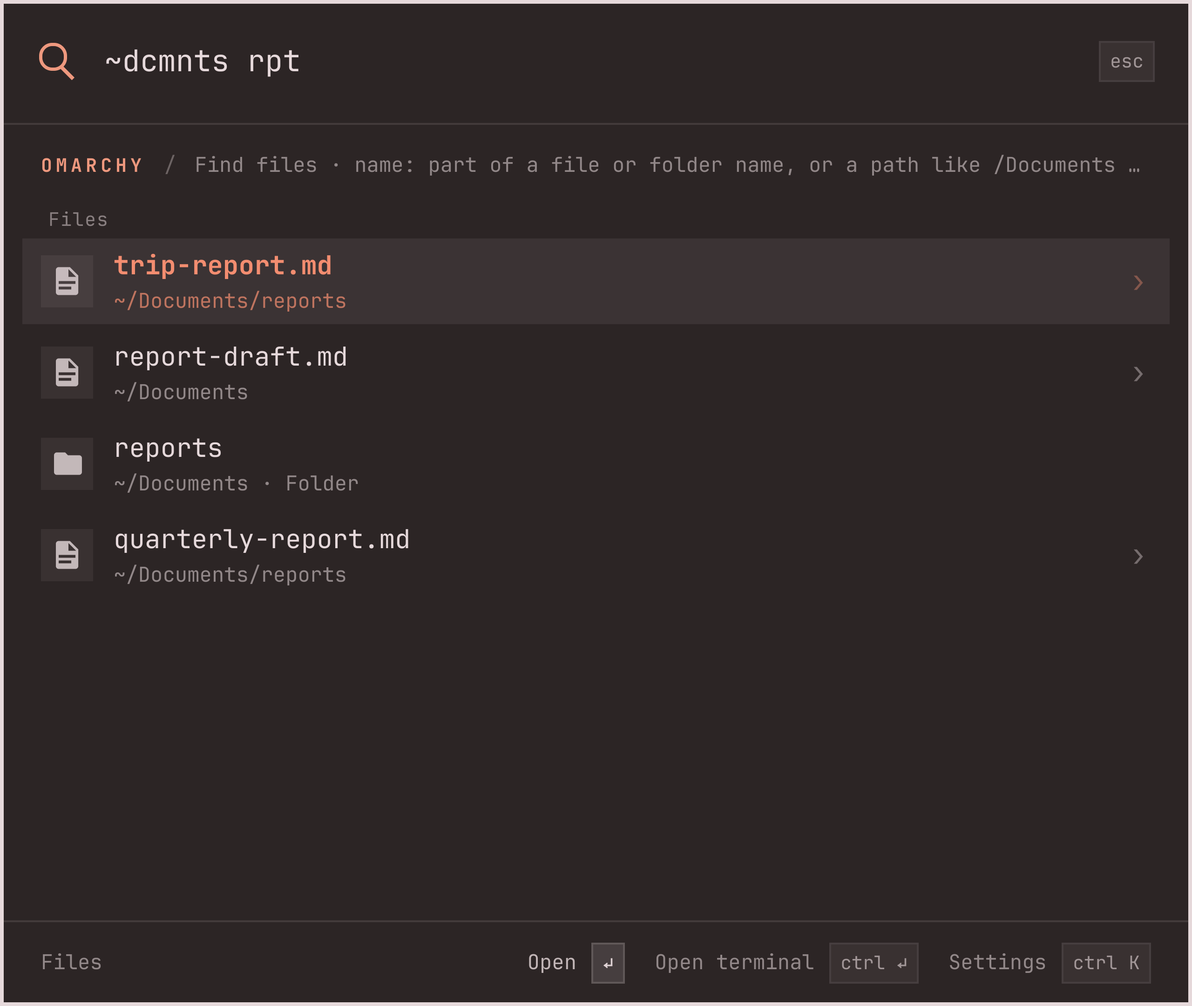
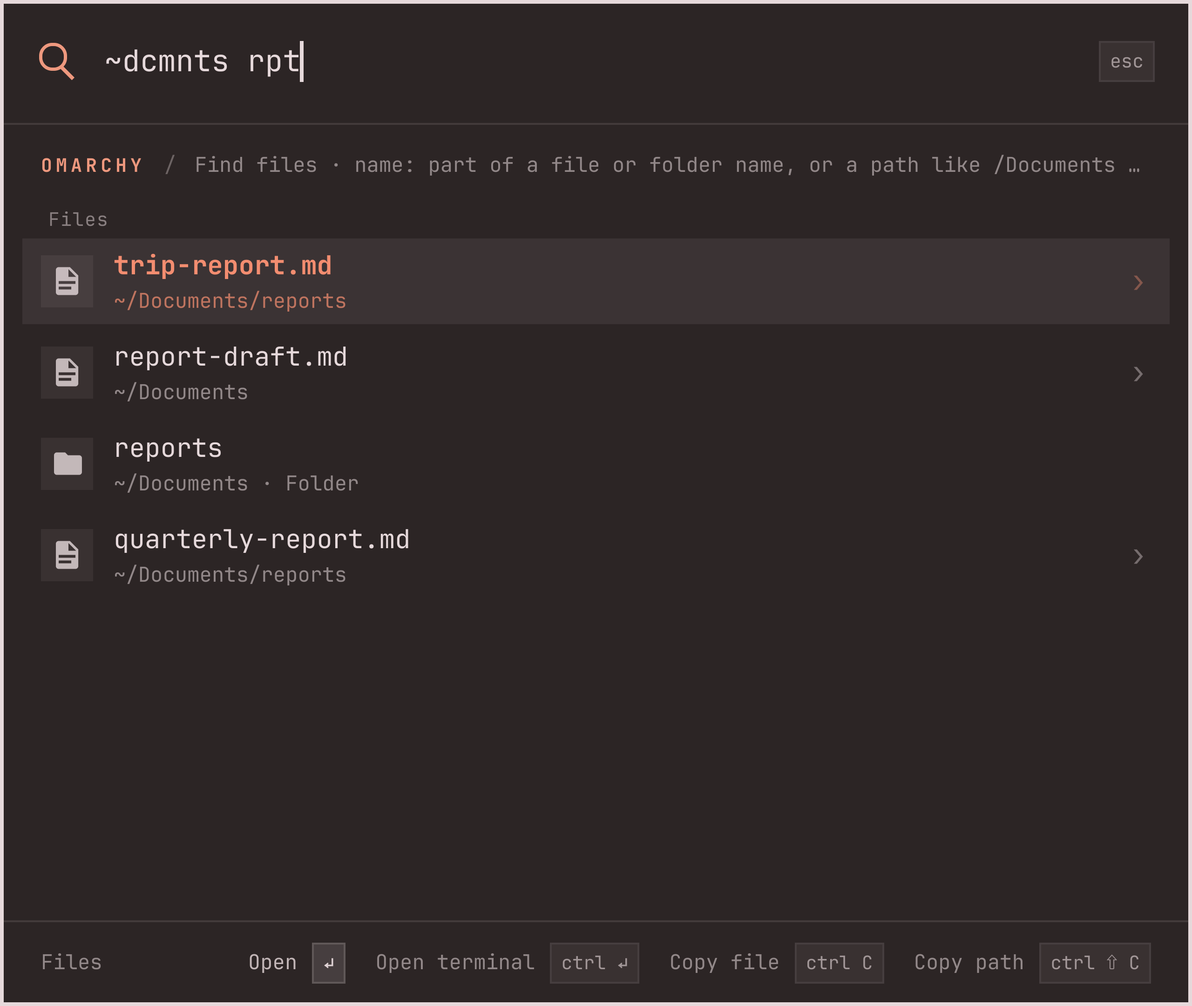
Copy a file or its path from file search
Ctrl+C on a file search result copies the file itself, as a text/uri-list a
file manager pastes as the file and an upload field accepts; Ctrl+Shift+C
copies its absolute path as text. With text selected in the search field,
Ctrl+C still copies the selection.

Rows gain optional copyAction/copyVerb and copyAltAction/copyAltVerb for the
two keys, listed in the footer; the Ctrl+K hint gives way when a row already
fills the footer with four keys. The copy effect takes an optional mime.

Closes #21.

Changed region(s): [[0.375, 0.9306, 0.9375, 0.9926], [0.2188, 0.9306, 0.3438, 0.9926]]

diff --git a/Keystroke.qml b/Keystroke.qml
@@ -464,8 +464,12 @@ Item {
     var out = [{ label: root.dictationMode ? "Copy" : voice.active ? "Finish" : row.verb || "Select", keys: typesQuery ? ["↵", "tab"] : ["↵"], bright: true }]
     if (root.clipboardChoice) out.push({ label: "Paste", key: "ctrl ↵" })
     else if (can && row.altVerb && !voice.active) out.push({ label: row.altVerb, key: "ctrl ↵" })
+    if (can && row.copyAction && !voice.active) out.push({ label: row.copyVerb, key: "ctrl C" })
+    if (can && row.copyAltAction && !voice.active) out.push({ label: row.copyAltVerb, key: "ctrl ⇧ C" })
     if (can && row.appId) out.push({ label: "Uninstall", key: "del" })
-    out.push({ label: root.compact ? "Settings" : "Provider settings", key: "ctrl K" })
+    // Ctrl+K is the one hint not about the selection; it yields when the row
+    // already fills the footer (Files: open, terminal, copy file, copy path).
+    if (out.length <= 3) out.push({ label: root.compact ? "Settings" : "Provider settings", key: "ctrl K" })
     return out
   }
   readonly property bool previewVisible: !dmenuActive && paletteSettings.showPreview !== false && !!(current.preview || current.previewImage || current.swatch)
@@ -983,6 +987,8 @@ Item {
     out.accessory = String(row.accessory || "")
     out.badge = String(row.badge || (entry.source === "extension" ? "extension" : ""))
     out.altVerb = String(row.altVerb || (row.altAction ? root.defaultVerb(row.altAction) : ""))
+    out.copyVerb = String(row.copyVerb || (row.copyAction ? "Copy" : ""))
+    out.copyAltVerb = String(row.copyAltVerb || (row.copyAltAction ? "Copy" : ""))
     out.disabled = row.disabled === true
     out.remember = row.remember === true
     out.confirm = String(row.confirm || "")
@@ -1177,6 +1183,19 @@ Item {
     else run()
   }
 
+  // Ctrl+C and Ctrl+Shift+C: a row's copyAction and copyAltAction (Files:
+  // the file itself and its path). False when the row offers none.
+  function copySelection(alternate) {
+    if (root.confirmPending || root.dmenuActive || root.dictationMode) return false
+    var row = root.current
+    var effect = row && row.uid && !row.disabled ? (alternate ? row.copyAltAction : row.copyAction) : null
+    if (!effect) return false
+    root.flash(row.uid)
+    root.remember(row)
+    root.perform(effect, row)
+    return true
+  }
+
   function applyDmenuSelection(value) {
     root.opened = false
     root.finishRequest(value)
@@ -1211,7 +1230,8 @@ Item {
     // would be readable by every local user in /proc/<pid>/cmdline. The palette
     // closes once wl-copy has it.
     if (type === "copy") {
-      if (!clipboardTransfer.submit(effect.text === undefined ? "" : effect.text, false)) root.cancel()
+      var copy = effect.mime ? ["wl-copy", "--type", String(effect.mime)] : null
+      if (!clipboardTransfer.submit(effect.text === undefined ? "" : effect.text, false, null, copy)) root.cancel()
       return
     }
     if (type === "query") { root.typeQuery(effect.text); return }
@@ -1505,6 +1525,7 @@ Item {
             else if (event.key === Qt.Key_Right && (atEnd || !text) && !root.dmenuActive && root.rows.length) { root.activate(); event.accepted = true }
             else if ((event.key === Qt.Key_Left || event.key === Qt.Key_Backspace) && !text && !preeditText && (root.scope || root.history.length)) { root.goBack(); event.accepted = true }
             else if (event.key === Qt.Key_Delete && atEnd && !selectedText && root.current.appId) { root.requestUninstall(); event.accepted = true }
+            else if (ctrl && event.key === Qt.Key_C && !selectedText && root.copySelection(!!(event.modifiers & Qt.ShiftModifier))) { event.accepted = true }
             else if (ctrl && event.key >= Qt.Key_1 && event.key <= Qt.Key_8) { root.activateAt(event.key - Qt.Key_1); event.accepted = true }
             else if (ctrl && event.key === Qt.Key_Comma && !root.dmenuActive) { root.navigate("settings", "Settings"); event.accepted = true }
             else if (ctrl && event.key === Qt.Key_K && !root.dmenuActive) {

diff --git a/core/Files.js b/core/Files.js
@@ -157,13 +157,27 @@ function terminalEffect(entry) {
   return { type: "exec", argv: ["setsid", "uwsm-app", "--", "xdg-terminal-exec", "--dir=" + dir] }
 }
 
+// A file URI, each path segment percent-encoded ("My Report #1.pdf" stays one
+// segment, never a fragment).
+function fileUri(path) {
+  return "file://" + String(path).split("/").map(encodeURIComponent).join("/")
+}
+
+// Ctrl+C copies the file itself, the way a file manager does: a text/uri-list
+// (CRLF-terminated, RFC 2483) that file managers paste as the file and upload
+// fields accept. Ctrl+Shift+C copies the absolute path as text.
+function copyFileEffect(entry) { return { type: "copy", mime: "text/uri-list", text: fileUri(entry.path) + "\r\n" } }
+function copyPathEffect(entry) { return { type: "copy", text: entry.path } }
+
 function row(query, entry, order, known) {
   var name = baseName(entry.rel), kind = kindOf(entry)
   var parent = tilde(parentOf(entry.rel))
   var out = {
     id: entry.rel, title: name, subtitle: parent + (entry.dir ? " · Folder" : ""), icon: ICONS[kind], section: "Files",
     verb: entry.dir ? "Open folder" : "Open", tier: "item", score: known === undefined ? score(query, entry) : known, order: order, remember: true,
-    altVerb: "Open terminal", action: openEffect(entry), altAction: terminalEffect(entry)
+    altVerb: "Open terminal", action: openEffect(entry), altAction: terminalEffect(entry),
+    copyVerb: entry.dir ? "Copy folder" : "Copy file", copyAction: copyFileEffect(entry),
+    copyAltVerb: "Copy path", copyAltAction: copyPathEffect(entry)
   }
   // Only a picture earns the preview pane; the row already says where a
   // file or folder is, and the footer what the keys do.

diff --git a/site/guide/index.html b/site/guide/index.html
@@ -197,7 +197,7 @@
     <div class="topic-copy">
       <span class="feature-number">13 / FILES AND FOLDERS</span>
       <h3 id="files-title">Find files and folders</h3>
-      <p>Files and folders under your home join the results from two characters on, found with <code>fd</code>, and abbreviations work: <code>dwnlds</code> finds Downloads. <code>~</code> searches only files: <code>~dcmnts rpt</code> is every report under Documents. <kbd>↵</kbd> opens the file with its default app; <kbd>Ctrl</kbd>+<kbd>↵</kbd> opens a terminal in its folder. Hidden entries are optional and gitignore rules are respected. Settings → Files chooses whether files mix into the main palette fuzzily, literally, or only with <code>~</code>.</p>
+      <p>Files and folders under your home join the results from two characters on, found with <code>fd</code>, and abbreviations work: <code>dwnlds</code> finds Downloads. <code>~</code> searches only files: <code>~dcmnts rpt</code> is every report under Documents. <kbd>↵</kbd> opens the file with its default app; <kbd>Ctrl</kbd>+<kbd>↵</kbd> opens a terminal in its folder. <kbd>Ctrl</kbd>+<kbd>C</kbd> copies the file itself, to paste into a file manager or an upload field, and <kbd>Ctrl</kbd>+<kbd>Shift</kbd>+<kbd>C</kbd> copies its full path. Hidden entries are optional and gitignore rules are respected. Settings → Files chooses whether files mix into the main palette fuzzily, literally, or only with <code>~</code>.</p>
       <p class="try"><b>Try it</b> Type <code>~dcmnts rpt</code>. Press <kbd>Ctrl</kbd>+<kbd>↵</kbd> to land in that folder in a terminal.</p>
     </div>
     <div class="shots">

diff --git a/voice/ClipboardTransfer.qml b/voice/ClipboardTransfer.qml
@@ -3,12 +3,13 @@ import Quickshell.Io
 
 // Copy completes before the palette closes. Only then allow 100 ms for focus
 // restoration and dispatch a paste shortcut. Text travels over stdin, not shell.
-// submit() may name its own paste command for one transfer.
+// submit() may name its own paste and copy commands for one transfer.
 Item {
   id: root
   property var copyCommand: ["wl-copy"]
   property var pasteCommand: ["wtype", "-M", "shift", "-k", "Insert", "-m", "shift"]
   property var activePasteCommand: pasteCommand
+  property var activeCopyCommand: copyCommand
   property bool busy: false
   property bool pasteAfterCopy: false
   property string payload: ""
@@ -16,12 +17,13 @@ Item {
   signal completed()
   signal failed(string message)
 
-  function submit(text, paste, command) {
+  function submit(text, paste, command, copy) {
     if (root.busy || copyProc.running || pasteProc.running || !String(text || "").trim()) return false
     root.busy = true
     root.payload = String(text)
     root.pasteAfterCopy = paste === true
     root.activePasteCommand = command || root.pasteCommand
+    root.activeCopyCommand = copy || root.copyCommand
     copyProc.stdinEnabled = true
     copyProc.running = true
     deadline.restart()
@@ -38,7 +40,7 @@ Item {
   function fail(message) { root.cancel(); root.failed(message) }
   Process {
     id: copyProc
-    command: root.copyCommand
+    command: root.activeCopyCommand
     onStarted: { write(root.payload); root.payload = ""; stdinEnabled = false }
     onExited: function(code) {
       if (!root.busy) return

diff --git a/tests/tst_files.qml b/tests/tst_files.qml
@@ -21,6 +21,18 @@ TestCase {
         verify(Files.cacheKey("re", both) !== Files.cacheKey("re", { files: true, folders: false }))
     }
 
+    function test_rows_copy_the_file_and_its_path() {
+        var file = Files.row("rpt", { path: home + "/Docs/My Report #1.pdf", rel: "Docs/My Report #1.pdf", dir: false }, 0, 10)
+        compare(file.copyVerb, "Copy file")
+        compare(file.copyAction, { type: "copy", mime: "text/uri-list", text: "file://" + home + "/Docs/My%20Report%20%231.pdf\r\n" })
+        compare(file.copyAltVerb, "Copy path")
+        compare(file.copyAltAction, { type: "copy", text: home + "/Docs/My Report #1.pdf" })
+        var folder = Files.row("doc", { path: home + "/Docs", rel: "Docs", dir: true }, 0, 10)
+        compare(folder.copyVerb, "Copy folder")
+        compare(folder.copyAction.text, "file://" + home + "/Docs\r\n")
+        compare(Files.fileUri("/a/%b?c/\u00e9"), "file:///a/%25b%3Fc/%C3%A9")
+    }
+
     function test_mounted_filesystems_are_opt_in() {
         verify(Files.argv("report", home, both).indexOf("--one-file-system") >= 0)
         var mounted = Object.assign({}, both, { searchMounts: true })

diff --git a/tests/palette_copy_check.py b/tests/palette_copy_check.py
@@ -47,6 +47,9 @@ os.execv("/bin/bash", ["bash"] + sys.argv[1:])
     secret = "token=hunter2\nline two -- $(id) 'quoted' é"
     typed = "hunter2 $(id) 'q' é"
     selection, done = work / "selection", work / "done"
+    report = work / "Docs/My Report #1.pdf"
+    report.parent.mkdir()
+    report.write_text("report")
     (work / "shell.qml").write_text('''import QtQuick
 import Quickshell
 import "project"
@@ -82,6 +85,35 @@ ShellRoot {
      test.stage++; return
    case 4:
      if (palette.opened) return
+     palette.open(JSON.stringify({query: "~my report"}))
+     test.stage++; return
+   case 5:
+     var file = palette.rows.filter(function(r) { return r.title === "My Report #1.pdf" })[0]
+     if (palette.pending || !file) return
+     palette.selected = palette.rows.indexOf(file)
+     var labels = palette.footerActions.map(function(a) { return a.label + " " + a.key })
+     check(labels.indexOf("Copy file ctrl C") >= 0 && labels.indexOf("Copy path ctrl ⇧ C") >= 0, "footer names both copy keys: " + labels)
+     check(palette.copySelection(false), "Ctrl+C copies the file")
+     test.stage++; return
+   case 6:
+     if (palette.opened) return
+     palette.open(JSON.stringify({query: "~my report"}))
+     test.stage++; return
+   case 7:
+     var again = palette.rows.filter(function(r) { return r.title === "My Report #1.pdf" })[0]
+     if (palette.pending || !again) return
+     palette.selected = palette.rows.indexOf(again)
+     check(palette.copySelection(true), "Ctrl+Shift+C copies the path")
+     test.stage++; return
+   case 8:
+     if (palette.opened) return
+     palette.open(JSON.stringify({query: "2+3"}))
+     test.stage++; return
+   case 9:
+     if (palette.pending || !palette.rows.length) return
+     palette.selected = 0
+     check(!palette.copySelection(false) && palette.opened, "a row without copy actions leaves Ctrl+C alone")
+     palette.cancel()
      console.log(test.failures ? "FAIL palette private text" : "PASS palette private text")
      Qt.quit(); test.stage++; return
    }
@@ -103,7 +135,9 @@ ShellRoot {
     assert "PASS palette private text" in output and "FAIL" not in output, output
     assert "TypeError" not in output and "ReferenceError" not in output, output
     copies = [json.loads(line) for line in log.read_text().splitlines()]
-    assert copies == [{"args": [], "stdin": "5"}, {"args": [], "stdin": secret}], copies
+    assert copies == [{"args": [], "stdin": "5"}, {"args": [], "stdin": secret},
+                      {"args": ["--type", "text/uri-list"], "stdin": "file://" + str(work).replace(" ", "%20") + "/Docs/My%20Report%20%231.pdf\r\n"},
+                      {"args": [], "stdin": str(report)}], copies
     deadline = time.monotonic() + 5
     while not done.exists() and time.monotonic() < deadline:
         time.sleep(0.05)
@@ -111,4 +145,4 @@ ShellRoot {
     assert selection.read_text() == typed + "\n", selection.read_text()
     argvs = bash_log.read_text() if bash_log.exists() else ""
     assert "hunter2" not in argvs, argvs
-    print("PASS palette private text: copies and picker input reach their process on stdin, byte for byte, never as arguments")
+    print("PASS palette private text: copies, file and path copies and picker input reach their process on stdin, byte for byte, never as arguments")

diff --git a/docs/providers.md b/docs/providers.md
@@ -107,7 +107,8 @@ Commands and patterns coexist: a command is the explicit trigger, a pattern the 
   score: 100, order: 0, keywords: "ids aliases", path: "Parent › Child › …", description: "prose", accessory: "✓",
   disabled: false, remember: false, confirm: "Really?", confirmDetail: "one muted line under the question", confirmText: "Turn on", cancelText: "Keep off",
   preview: "text", previewLabel: "RESULT", previewDetail: "…", previewImage: "/path.png", swatch: "#hex",
-  action: effect, altAction: effect, altVerb: "Copy URL" }
+  action: effect, altAction: effect, altVerb: "Copy URL",
+  copyAction: effect, copyVerb: "Copy file", copyAltAction: effect, copyAltVerb: "Copy path" }
 ```
 
 Legacy `catalog(ctx)` fields are ignored; the local model command classifier has been removed. A row's `hint` (once a line of keys shown on the selected row) is ignored too: the keys that act on the selection are listed in the footer, from `verb`, `altVerb` and the screen.
@@ -115,6 +116,8 @@ Legacy `catalog(ctx)` fields are ignored; the local model command classifier has
 `confirm` asks before the effect runs, in a sheet that rises from the bottom of the card; the optional `confirmDetail` is a muted paragraph under the question. `↵` runs the effect and `Esc` keeps things as they are; `confirmText` and `cancelText` name those two keys for what they do ("Turn on" / "Keep off", "Cancel timer" / "Keep running") instead of the default Confirm / Cancel. Turning an extension on uses the detail to say what was checked and that the code runs at the user's own risk. A confirmation never carries a link: opening anything would move focus away from the palette.
 
 `altAction` is optional and runs on `Ctrl+↵` (a row without one runs `action` again). Name it in `altVerb` ("Copy URL", "Open terminal"), the way `verb` names `↵`; the footer shows both next to their keys while the row is selected. A row with an `altAction` and no `altVerb` gets a name from the effect's type (`copy` → Copy, `url` → Open). A provider's `activate(row, ctx)` receives `ctx.alternate === true` for that key so it can compute the effect itself.
+
+`copyAction` and `copyAltAction` are optional and run on `Ctrl+C` and `Ctrl+Shift+C` while the search field has no selected text (with a selection, `Ctrl+C` copies it as usual). Name them in `copyVerb` and `copyAltVerb`; the footer lists them after `Ctrl+↵`, and the `Ctrl+K` hint gives way when the row already offers four keys. They run as given, without `activate`. Files uses them to copy the file itself (`copyAction`, a `text/uri-list`) and its absolute path (`copyAltAction`).
 
 A row does not change when selected beyond its highlight. `accessory` is state the row carries (a check mark, a setting's value, a countdown), not where it came from: say that with the icon or the section, or in `previewLabel` when there is a pane. An extension's rows carry an `extension` badge (a local folder's, `local`) that the preview pane shows beside `previewDetail`.
 
@@ -124,7 +127,7 @@ Give a row a `preview`, `previewImage` or `swatch` only when the pane adds somet
 
 ### Effects
 
-`{type:"navigate", scope, title}` · `{type:"query", text}` (put `text` in the search field at the palette root and stay open: what a command's usage rows and the `/` screen do) · `{type:"exec", argv}` (literal argv, login-shell env) · `{type:"shell", command}` (trusted strings only) · `{type:"copy", text}` · `{type:"paste", text}` or `{type:"paste", mime, path}` (copy, close, then paste into the previous window: `Ctrl+Shift+V` in a terminal, `Ctrl+V` elsewhere; `shortcut:"shift-insert"` forces `Shift+Insert`) · `{type:"url", url}` · `{type:"app", id, name}` (launch via AppLibrary) · `{type:"notify", glyph, headline, body}` · `{type:"setting", path, key, value, schema}` · `{type:"compound", actions}` · `{type:"close"}` (dismiss the palette, nothing else) · `{type:"noop"}` (stay open; pair it with `host.requery()` when your rows changed). The host closes the palette before anything that launches.
+`{type:"navigate", scope, title}` · `{type:"query", text}` (put `text` in the search field at the palette root and stay open: what a command's usage rows and the `/` screen do) · `{type:"exec", argv}` (literal argv, login-shell env) · `{type:"shell", command}` (trusted strings only) · `{type:"copy", text}` (to `wl-copy` on stdin; an optional `mime` such as `"text/uri-list"` sets the clipboard type) · `{type:"paste", text}` or `{type:"paste", mime, path}` (copy, close, then paste into the previous window: `Ctrl+Shift+V` in a terminal, `Ctrl+V` elsewhere; `shortcut:"shift-insert"` forces `Shift+Insert`) · `{type:"url", url}` · `{type:"app", id, name}` (launch via AppLibrary) · `{type:"notify", glyph, headline, body}` · `{type:"setting", path, key, value, schema}` · `{type:"compound", actions}` · `{type:"close"}` (dismiss the palette, nothing else) · `{type:"noop"}` (stay open; pair it with `host.requery()` when your rows changed). The host closes the palette before anything that launches.
 
 A provider's own `activate(row, ctx)` may perform work itself (start a process, mutate its state) and return one of the effects above; private action types are fine as long as `activate` translates them (see `providers/Extensions.qml`). `ctx.host` is the palette: `host.requery()`, `host.statusMessage = "…"`, `host.errorMessage = "…"`, `host.opened`, `host.scope`, `host.config`, `host.registry` (the provider registry: `entries`, `manifests`, `problems`, `scan()`), `host.providerSettings(id)` (the validated values of one provider's settings, for a service that keeps state between queries; `host.configChanged` fires on every save), `host.setBarItem(id, item)` (below).
 

diff --git a/README.md b/README.md
@@ -53,7 +53,7 @@ Requires Omarchy ≥ 4.0.2 (Quickshell 0.3, Qt 6.11). Like every Omarchy plugin,
 - **Fuzzy everywhere, into submenus.** From the root, `prefp`, `keysepro` and `setaiprv` all land on Keystroke Settings › AI & Web Search › Preferred assistant, `prefcla` on its Claude choice, `sysshut` on System › Shutdown. Letters may skip whole words of the breadcrumb, words can come in any order (`ai prov`), descriptions match by word. Inside a submenu the same search covers everything below it.
 - **Answers first.** Computed results appear as answer rows with a preview; matches next; the web search and the assistants last.
 - **Open URL.** Paste a web address (`example.com/path?q=hello#section`, with or without `http(s)://`) and it appears above ordinary matches; `↵` opens it in your default browser. `$example.com` selects this provider directly. Domains default to HTTPS; bare IP addresses and `localhost:3000` default to HTTP. International domains, IPv6 addresses in brackets, ports, query parameters and fragments are supported. Use an explicit scheme or `$` for a single-word intranet host. A bare file name stays a file: `readme.md` and `archive.zip` find your files rather than offering a web address, and a scheme, `$`, a port or a path (`readme.md/raw`) asks for the address anyway. Settings → Open URL has **Enabled** and **Prefix**.
-- **Files and folders** under `~` join the results from two characters on. Fuzzy abbreviations work: `dwnlds` finds Downloads, and `~dcmnts rpt` searches only files and folders for reports under Documents. `~` always selects fuzzy file search; Settings → Files → **Search in the main palette** offers **Fuzzy** (default), **Literal**, or **Only with ~**. Hidden entries are optional; gitignore rules remain respected. Mounted filesystems are excluded by default to avoid blocked cloud or network searches; enable **Search mounted filesystems** in Settings → Files to include them. `↵` opens the result; `Ctrl+↵` opens a terminal there. At most ten results mix into the main palette; `~` and the Files screen show up to sixty.
+- **Files and folders** under `~` join the results from two characters on. Fuzzy abbreviations work: `dwnlds` finds Downloads, and `~dcmnts rpt` searches only files and folders for reports under Documents. `~` always selects fuzzy file search; Settings → Files → **Search in the main palette** offers **Fuzzy** (default), **Literal**, or **Only with ~**. Hidden entries are optional; gitignore rules remain respected. Mounted filesystems are excluded by default to avoid blocked cloud or network searches; enable **Search mounted filesystems** in Settings → Files to include them. `↵` opens the result; `Ctrl+↵` opens a terminal there; `Ctrl+C` copies the file itself (paste it into a file manager or an upload field) and `Ctrl+Shift+C` its full path. At most ten results mix into the main palette; `~` and the Files screen show up to sixty.
 - **Clipboard history** is Omarchy's own saved text and images. `↵` copies an entry, `Ctrl+↵` pastes it into the window you came from; Settings → Clipboard History → **Paste on selection** swaps the two. Pasting sends `Ctrl+Shift+V` to a terminal (Omarchy's `terminal` tag, or a desktop entry in the TerminalEmulator category) and `Ctrl+V` anywhere else; **Paste shortcut** can force `Shift+Insert`.
 - **Hotkeys you have not learned yet.** Every Omarchy keybinding is a row at the root, named by what it does, with the keys next to it: `flcrn` shows **Full screen** with `Super + F`, `super f` finds the same bind by its keys, `screenshot` finds the one that runs `omarchy-capture-screenshot`. `↵` runs the bind exactly as pressing it would (the list and the dispatch both come from `omarchy-menu-keybindings`, the script behind `Super+K`); the keys shown are the suggestion for next time, and frecency lifts what you actually use. The **Hotkeys** screen lists all of them in the `Super+K` order. Binds Omarchy cannot run from a menu (Lua closures such as **Close window**) are shown greyed so the keys can still be learned. At most ten mix into the root (Settings → Hotkeys).
 - **Assistant hand-offs** open the target with your prompt already in its composer, nothing goes through the clipboard: Claude desktop via `claude://claude.ai/new?q=…`, the Codex desktop app via `codex://threads/new?prompt=…`, or the browser (`claude.ai/new?q=`, `chatgpt.com/?prompt=`; `?q=` sends immediately when **Send immediately in the browser** is on). CLI mode opens a terminal with `claude` or `codex` and the prompt as a literal argument. With Cursor installed, **Ask Cursor** opens `cursor://anysphere.cursor-deeplink/prompt?text=…` through `cursor --open-url`, and CLI mode runs Cursor's `agent` instead (Settings → AI & Web Search → **Cursor workspace folder** passes `--workspace`).

diff --git a/CONTRIBUTING.md b/CONTRIBUTING.md
@@ -106,7 +106,7 @@ readonly property var provider: ({
 
 **Icon.** `icon` is a glyph from Omarchy's icon font and is always needed (put the same one in `extension.json`, which is what the Extensions screen shows before your code is loaded); `iconSource` is an optional image (SVG or PNG next to your QML, resolved with `Qt.resolvedUrl`) that replaces the glyph on your rows in Extensions and Settings. Put the same `iconSource` on the rows you return so your results carry your icon too.
 
-Rows: `{ id, title, subtitle, icon, iconSource, tint, section, verb, tier: "answer"|"item"|"fallback", score, order, keywords, description, accessory, hint, confirm, preview, previewLabel, previewDetail, action, altAction }`. Omit `score` for non-empty queries to use the fuzzy matcher over `title`, `keywords` (identifiers) and `description` (prose, word-prefix only); give an explicit `score` for listings with an empty query. Answers (`tier: "answer"`) sort above items; use them only for computed results of an explicit request.
+Rows: `{ id, title, subtitle, icon, iconSource, tint, section, verb, tier: "answer"|"item"|"fallback", score, order, keywords, description, accessory, hint, confirm, preview, previewLabel, previewDetail, action, altAction, copyAction, copyAltAction }`. Omit `score` for non-empty queries to use the fuzzy matcher over `title`, `keywords` (identifiers) and `description` (prose, word-prefix only); give an explicit `score` for listings with an empty query. Answers (`tier: "answer"`) sort above items; use them only for computed results of an explicit request.
 
 Effects: `navigate`, `exec` (argv), `shell` (trusted string), `copy`, `url`, `app`, `notify`, `setting`, `compound`, `close`, `noop`, and `provider-view` for an extension that ships its own screen (see below). Anything that launches closes the palette first. `noop` keeps it open; call `host.requery()` when your rows changed. Private action types are fine if `activate` translates them into one of these.
 

diff --git a/docs/verification.md b/docs/verification.md
@@ -1,6 +1,30 @@
 > Historical checkpoints below include retired local-model and forked-Voxtype implementations. Current build: [Codex integration verification](codex-integration-verification.md).
 
 
+## Copy a file or its path from file search (2026-10-24)
+
+- From #21. In Files results, `Ctrl+C` copies the entry itself as a
+  `text/uri-list` (`file://` URI, every path segment percent-encoded so `#`
+  and `?` stay in the name, CRLF-terminated per RFC 2483) and
+  `Ctrl+Shift+C` copies its absolute path as text. Both go to `wl-copy` on
+  stdin; the uri-list adds `--type text/uri-list`. With text selected in the
+  search field, `Ctrl+C` copies the selection as before.
+- Generic: rows may carry `copyAction`/`copyVerb` and
+  `copyAltAction`/`copyAltVerb` (optional fields, `apiVersion` stays 1). The
+  footer lists them after `Ctrl+↵`; the `Ctrl+K` hint yields when a row
+  already shows four keys, because five overflowed the compact footer
+  (seen in an offscreen render: `Open ↵` overlapped the provider name).
+  `site/assets/screenshots/files-tilde.png` re-rendered with the new footer.
+- Passed: `tests/tst_files.qml` (URIs with spaces, `#`, `?`, `%` and
+  non-ASCII; verbs for files and folders); `tests/palette_copy_check.py`
+  extended with real `fd` over a fake home: the footer names both keys,
+  `copySelection(false)` sends `--type text/uri-list` and the URI on stdin,
+  `copySelection(true)` the path, and a calculator row leaves `Ctrl+C`
+  alone; full `bin/keystroke test` (279 QML tests).
+- Not exercised: the key presses themselves (the handler is one line over
+  `copySelection`), and pasting the uri-list into Nautilus or a browser
+  upload field on a live desktop.
+
 ## Release 1.5.2 (2026-10-24)
 
 - Contents since 1.5.1: #34 (file walks cancelled, mounts opt-in), #39 with

diff --git a/docs/architecture.md b/docs/architecture.md
@@ -87,7 +87,7 @@ At the root, `~` is the Files provider's declared sigil command (`core/Commands.
 
 Each walk uses two threads, stops after 400 candidates, and has a three-second watchdog. New queries, closing the palette, clearing the query, entering another provider scope, and opening a picker cancel obsolete walks; cancelled output is discarded. Searches use `--one-file-system` by default to avoid entering potentially blocking FUSE or network mounts below home. The `searchMounts` setting opts into crossing filesystem boundaries and forms part of the cache key. Cancellation cannot interrupt an already uninterruptible filesystem request. A summon caches at most 32 queries. Queries need two characters and are bounded to 128 characters/eight terms. NUL-delimited output preserves unusual filenames, and argv avoids shell interpolation. QML rechecks paths below home and ranks the bounded candidates with `Match.match`, retaining the 0.55 file weight and final host-owned selection learning. The main palette shows its configured limit; `~` and the Files screen show up to 60. There is no persistent filesystem index or model for file search. A broad query can hit the candidate cap before reaching the best match; deeper paths or longer queries help. Slow disks and hidden trees may reach the watchdog and return partial results.
 
-`↵` uses `xdg-open`; `Ctrl+↵` opens a terminal in the selected directory (or a file's parent).
+`↵` uses `xdg-open`; `Ctrl+↵` opens a terminal in the selected directory (or a file's parent). `Ctrl+C` copies the entry as a `text/uri-list` (`file://` URI, each segment percent-encoded, CRLF-terminated) and `Ctrl+Shift+C` its absolute path as text, both to `wl-copy` on stdin.
 
 ## Hotkeys
 
